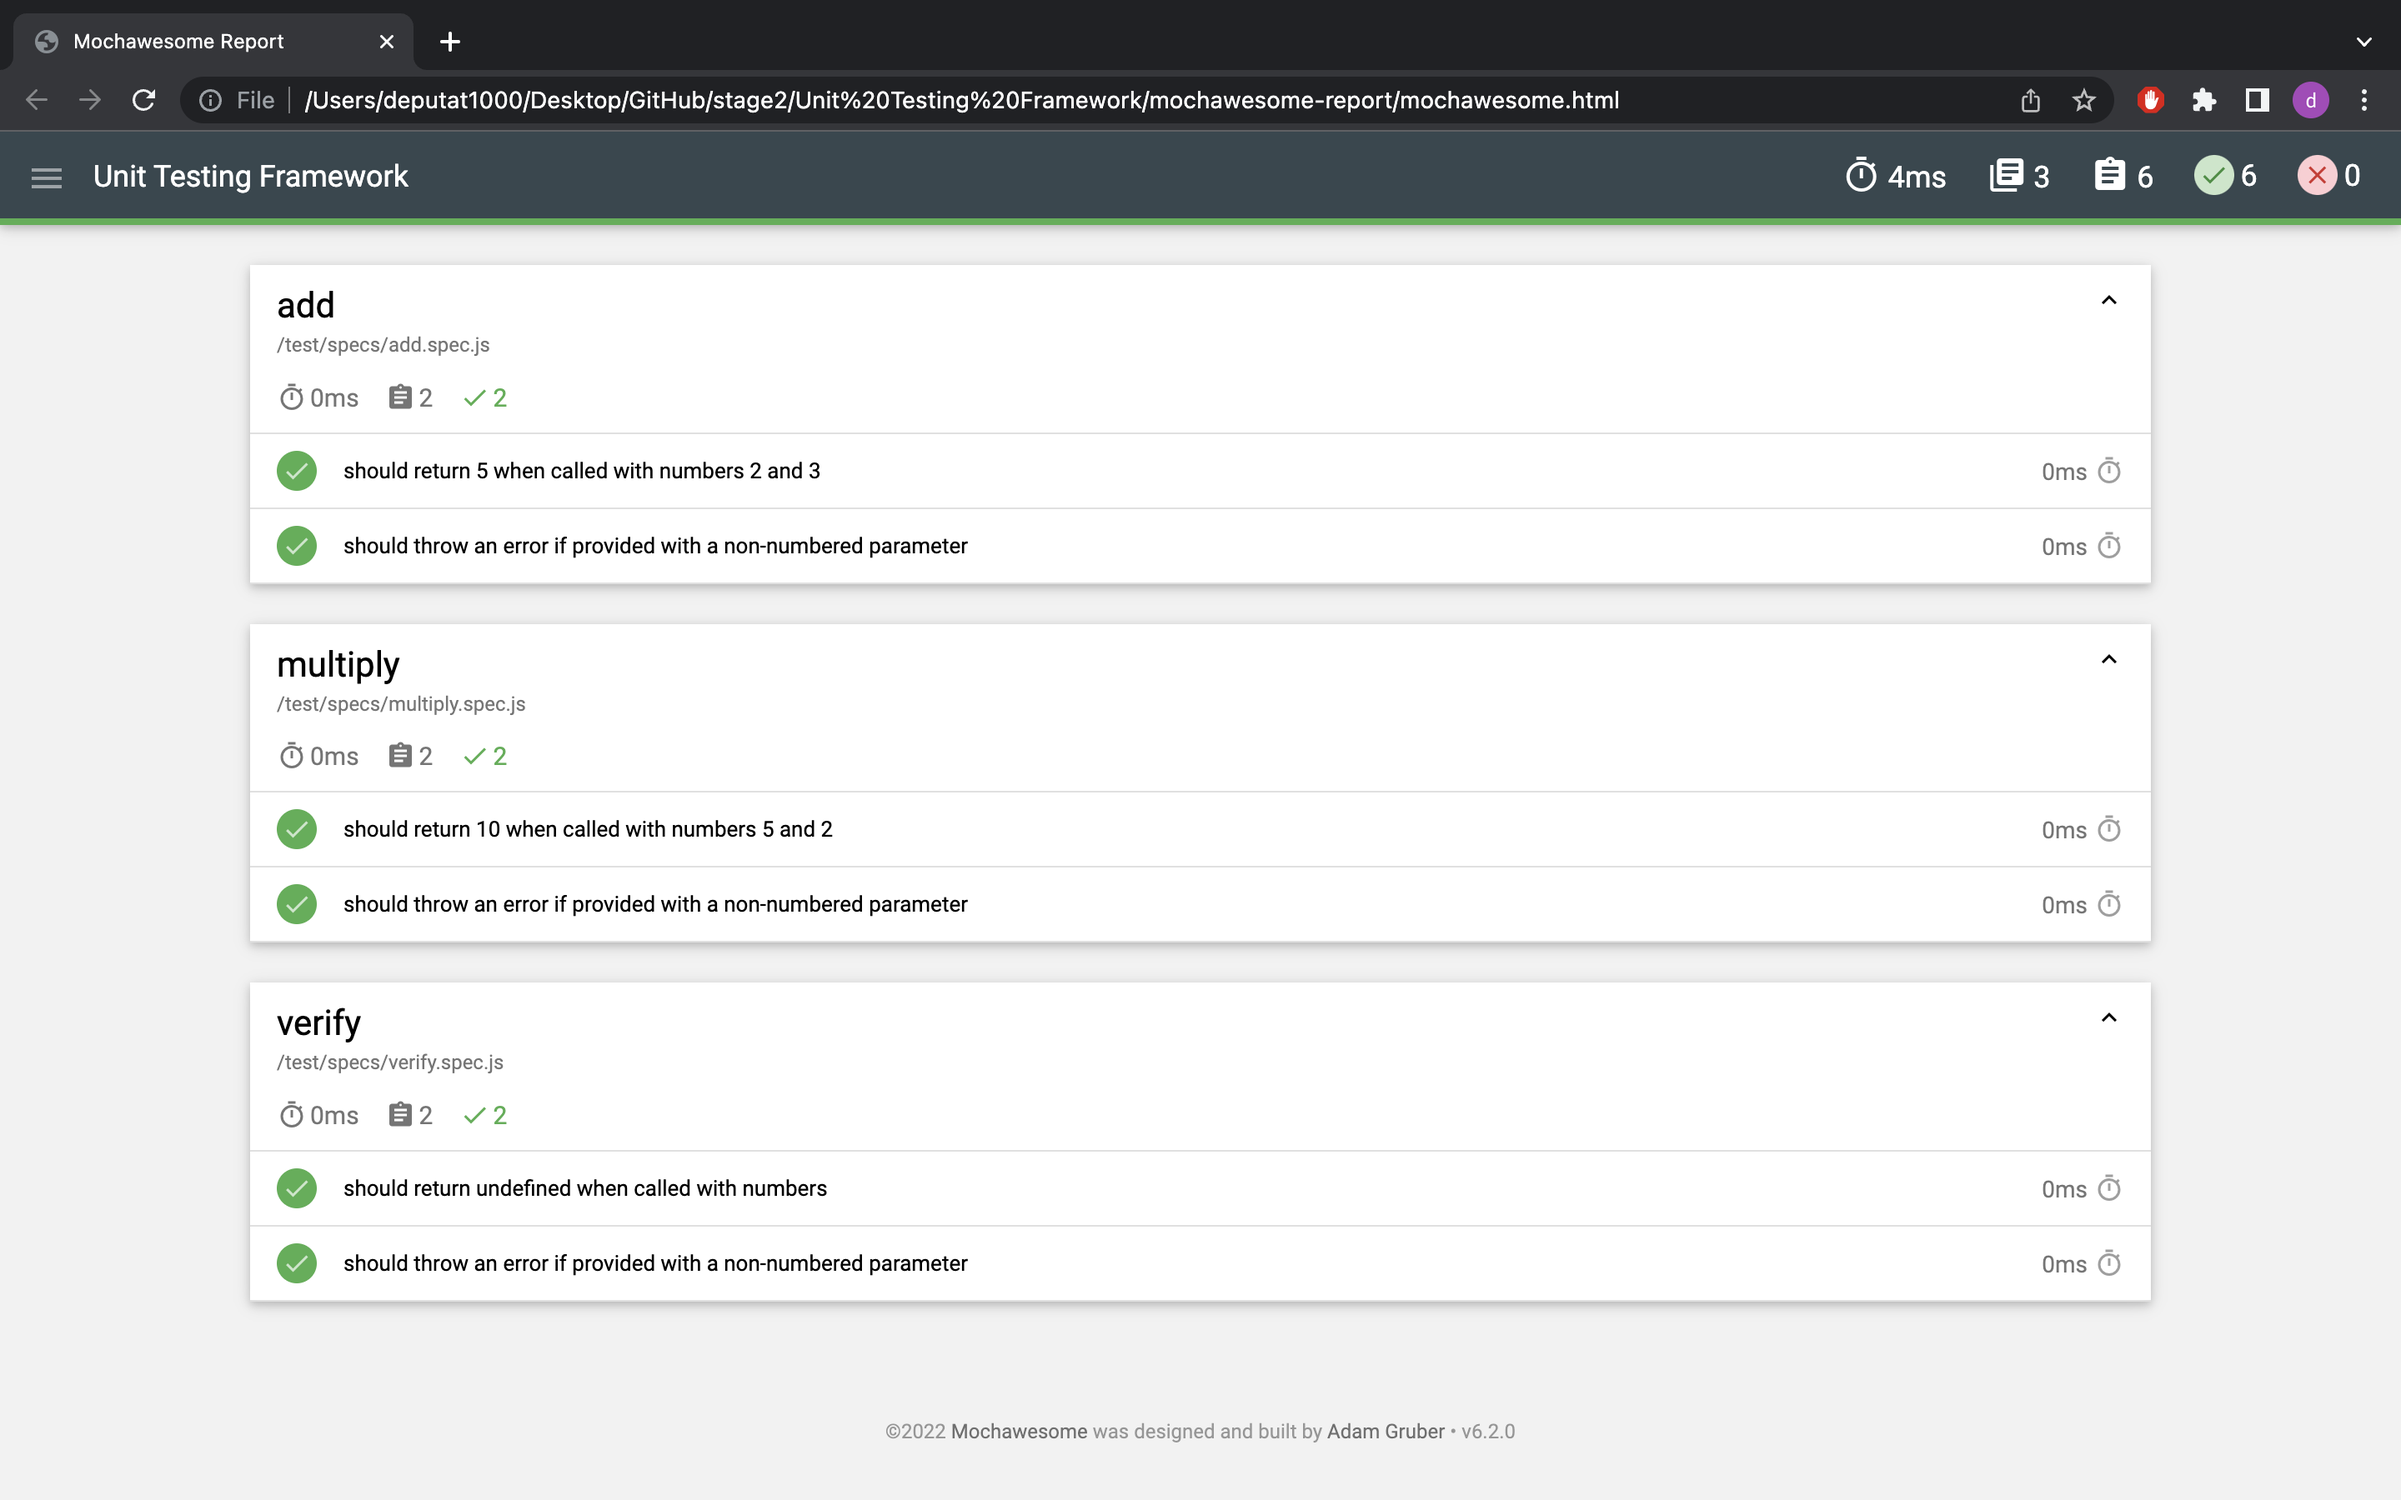
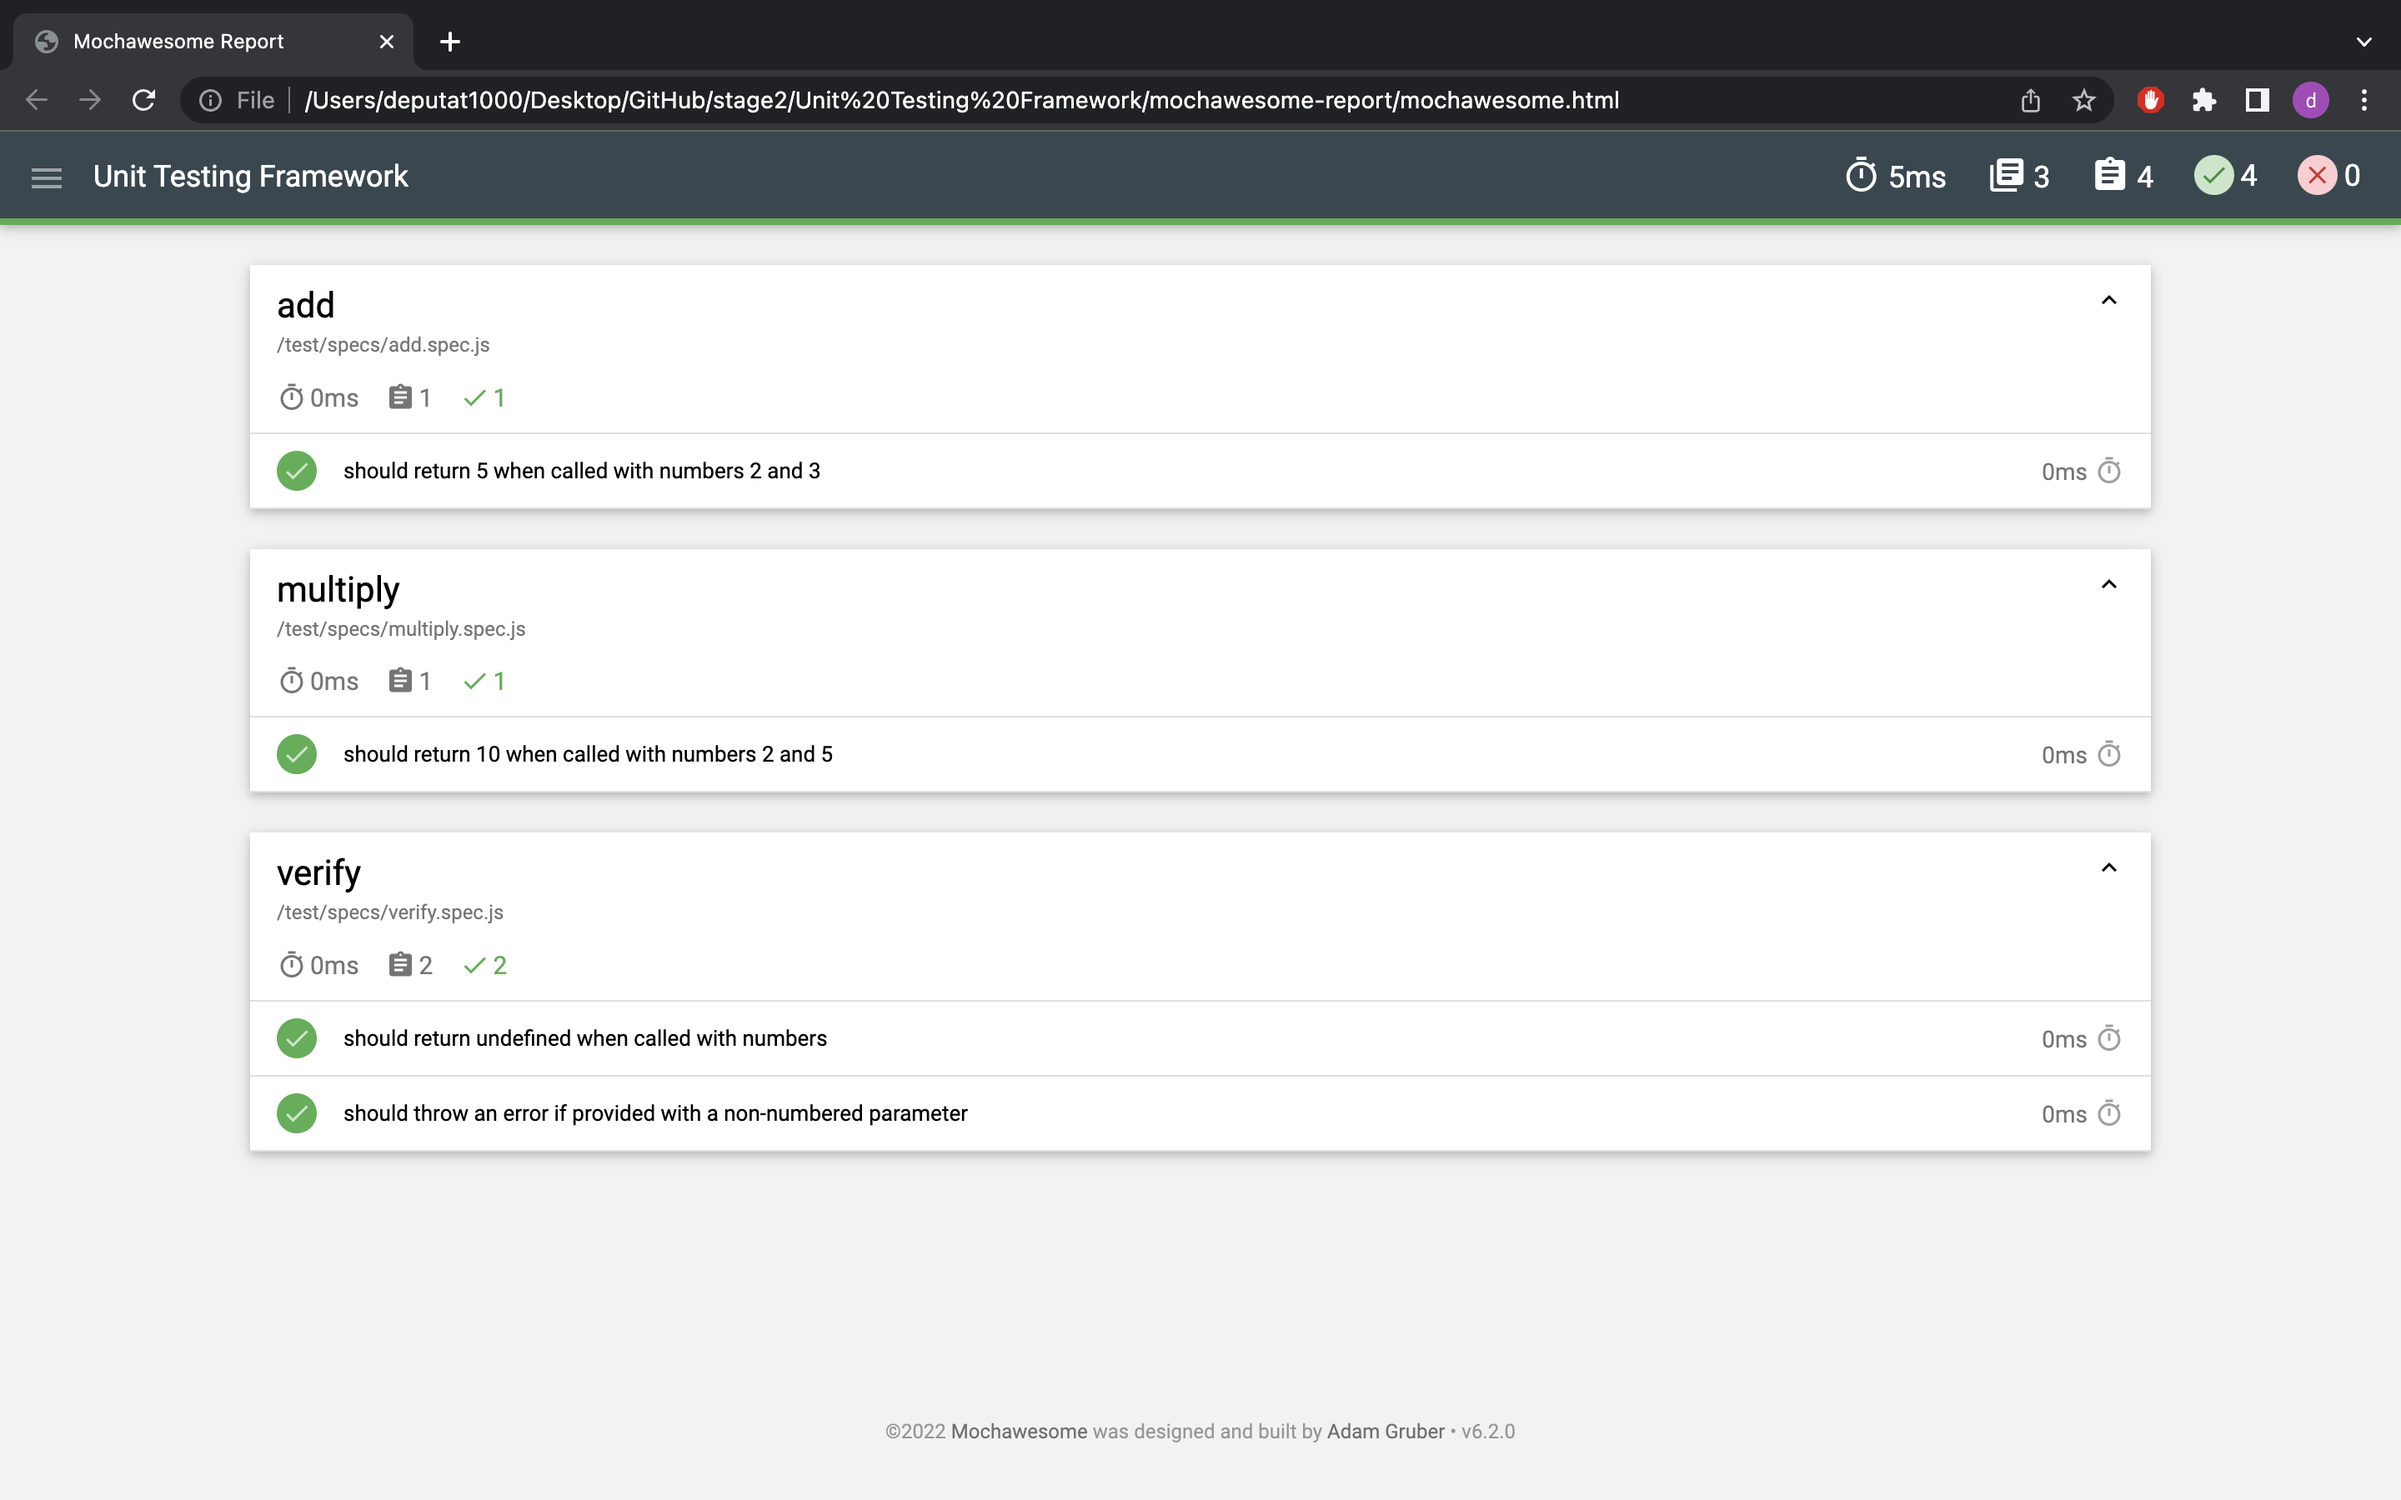
Some edit

Changed region(s): [[0.0938, 0.3422, 0.9062, 0.8711]]

diff --git a/Unit Testing Framework/test/specs/verify.spec.js b/Unit Testing Framework/test/specs/verify.spec.js
@@ -1,27 +1,19 @@
 const Calculator = require('../../app/calculator.js');
-const chai = require('chai');
-const spies = require('chai-spies');
 const {expect} = require('chai');
-chai.use(spies);
 
-describe(`verify`, () => {
+describe('verify', () => {
   let calculator;
-  let spy;
 
-  beforeEach(() => {
-    calculator = new Calculator();
-    spy = chai.spy.on(calculator, 'verify');
-  });
+  before(() => calculator = new Calculator());
 
-  afterEach(() => calculator = null);
-
-  it(`should return undefined when called with numbers`,
+  it('should return undefined when called with numbers',
       () => expect(calculator.verify(2, 3)).to.be.equal(undefined));
 
-  it(`should throw an error if provided with a non-numbered parameter`,
+  it('should throw an error if provided with a non-numbered parameter',
       () => {
         const callWithError = () => calculator.verify(2, false);
-        expect(spy).to.be.a.spy;
-        expect(callWithError).to.throw(`There is a non-numbered parameter!`);
+        expect(callWithError).to.throw('There is a non-numbered parameter!');
       });
+
+  after(() => calculator = null);
 });

diff --git a/Unit Testing Framework/app/calculator.js b/Unit Testing Framework/app/calculator.js
@@ -1,45 +1,21 @@
-/**
- * A class containing addition and multiplication methods
- * @class Calculator
- */
+/* eslint-disable require-jsdoc */
 class Calculator {
-  /**
-   * Creates an instance of Calculator.
-   * @memberof Calculator
-   */
   constructor() {}
 
-  /**
-   * @param {*} a to verify
-   * @param {*} b to verify
-   * @memberof Calculator
-   */
   verify(a, b) {
     const typeOfA = typeof a;
     const typeOfB = typeof b;
 
     if (typeOfA !== 'number' || typeOfB !== 'number') {
-      throw new Error(`There is a non-numbered parameter!`);
+      throw new Error('There is a non-numbered parameter!');
     }
   }
 
-  /**
-   * @param {Number} a to add
-   * @param {Number} b to add
-   * @return {Number} addition result
-   * @memberof Calculator
-   */
   add(a, b) {
     this.verify(a, b);
     return a + b;
   }
 
-  /**
-   * @param {Number} a to multiply
-   * @param {Number} b to multiply
-   * @return {Number} multiplication result
-   * @memberof Calculator
-   */
   multiply(a, b) {
     this.verify(a, b);
     return a * b;

diff --git a/Unit Testing Framework/test/specs/multiply.spec.js b/Unit Testing Framework/test/specs/multiply.spec.js
@@ -1,27 +1,14 @@
 const Calculator = require('../../app/calculator.js');
-const chai = require('chai');
-const spies = require('chai-spies');
 const {expect} = require('chai');
-chai.use(spies);
 
-describe(`multiply`, () => {
+describe('multiply', () => {
   let calculator;
-  let spy;
 
-  beforeEach(() => {
-    calculator = new Calculator();
-    spy = chai.spy.on(calculator, 'multiply');
-  });
+  before(() => calculator = new Calculator());
 
-  afterEach(() => calculator = null);
+  it('should return 10 when called with numbers 2 and 5',
+      () => expect(calculator.multiply(2, 5)).to.be.equal(10));
 
-  it(`should return 10 when called with numbers 5 and 2`,
-      () => expect(calculator.multiply(5, 2)).to.be.equal(10));
-
-  it(`should throw an error if provided with a non-numbered parameter`,
-      () => {
-        const callWithError = () => calculator.multiply(5, false);
-        expect(spy).to.be.a.spy;
-        expect(callWithError).to.throw(`There is a non-numbered parameter!`);
-      });
+  after(() => calculator = null);
 });
+

diff --git a/Unit Testing Framework/test/specs/add.spec.js b/Unit Testing Framework/test/specs/add.spec.js
@@ -1,27 +1,13 @@
 const Calculator = require('../../app/calculator.js');
-const chai = require('chai');
-const spies = require('chai-spies');
 const {expect} = require('chai');
-chai.use(spies);
 
-describe(`add`, () => {
+describe('add', () => {
   let calculator;
-  let spy;
 
-  beforeEach(() => {
-    calculator = new Calculator();
-    spy = chai.spy.on(calculator, 'add');
-  });
+  before(() => calculator = new Calculator());
 
-  afterEach(() => calculator = null);
-
-  it(`should return 5 when called with numbers 2 and 3`,
+  it('should return 5 when called with numbers 2 and 3',
       () => expect(calculator.add(2, 3)).to.be.equal(5));
 
-  it(`should throw an error if provided with a non-numbered parameter`,
-      () => {
-        const callWithError = () => calculator.add(2, false);
-        expect(spy).to.be.a.spy;
-        expect(callWithError).to.throw(`There is a non-numbered parameter!`);
-      });
+  after(() => calculator = null);
 });
